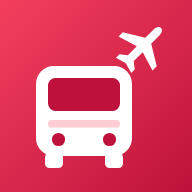
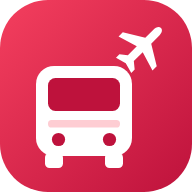
안드로이드 앱 설치(PWA) 지원
- 서비스 워커 추가: 앱 설치 조건 충족, 오프라인에서도 시간표 표시
- 설치 버튼(크롬 설치 안내), 오프라인 표시
- 원형 아이콘용 maskable 아이콘, manifest 보강
- 앱 아이콘 길게 누르기 바로가기 (T1/T2/대화동 출발)

Claude-Session: https://claude.ai/code/session_01QBqre46X2467msNNCXSqnc

diff --git a/index.html b/index.html
@@ -9,7 +9,9 @@
 <link rel="icon" href="icon.svg" type="image/svg+xml">
 <link rel="apple-touch-icon" href="apple-touch-icon.png">
 <link rel="manifest" href="manifest.webmanifest">
-<meta name="theme-color" content="#0f172a">
+<meta name="theme-color" content="#f3f5f9" media="(prefers-color-scheme: light)">
+<meta name="theme-color" content="#0b1120" media="(prefers-color-scheme: dark)">
+<meta name="description" content="대화동 ↔ 인천공항 공항리무진 3300번 다음 버스 시간과 실시간 위치">
 <title>공항리무진 3300번 BUS</title>
 <style>
   :root{
@@ -86,6 +88,16 @@
   .after .src{margin:4px 0 2px}
   #count{white-space:nowrap;text-align:right}
   .listhead{gap:10px}
+  .install{display:flex;align-items:center;gap:10px;background:var(--card);border:1px solid var(--line);border-radius:14px;
+    padding:10px 12px;margin:0 0 12px}
+  .install[hidden]{display:none}
+  .install .tx{flex:1;min-width:0;font-size:13px;font-weight:600;line-height:1.35}
+  .install button{border:0;border-radius:10px;font:inherit;font-size:13px;font-weight:800;padding:9px 12px;cursor:pointer;white-space:nowrap}
+  .install .go{background:var(--accent);color:#fff}
+  .install .x{background:transparent;color:var(--sub);padding:9px 4px;font-size:16px}
+  .offline{font-size:12px;font-weight:700;color:#b45309;background:#fef3c7;border-radius:10px;padding:7px 10px;margin:0 0 12px}
+  .offline[hidden]{display:none}
+  @media (prefers-color-scheme: dark){ .offline{background:#422006;color:#fde68a} }
   footer{margin-top:24px;font-size:11px;color:var(--sub);line-height:1.6;text-align:center}
   .loc{display:flex;justify-content:space-between;align-items:center;gap:8px;margin:-4px 2px 12px;font-size:13px;color:var(--sub)}
   .loc b{color:var(--text)}
@@ -174,6 +186,13 @@
       <div class="clock"><div class="t" id="clock">--:--:--</div><div class="z">한국시간 · Korea Time</div></div>
     </div>
   </header>
+
+  <div class="install" id="installBar" hidden>
+    <div class="tx" id="installTx">📲 앱으로 설치하면 아이콘을 눌러 바로 열 수 있어요<span class="en">Install as an app for one-tap access</span></div>
+    <button class="go" id="installGo">설치</button>
+    <button class="x" id="installX" aria-label="닫기">✕</button>
+  </div>
+  <div class="offline" id="offlineBar" hidden>📴 오프라인 · 저장된 시간표를 보여줍니다 <span class="en il">Offline · showing saved timetable</span></div>
 
   <nav class="seg" id="seg">
     <button data-k="dh">대화동<small>공항 방면</small><small class="en">To Airport</small></button>
@@ -751,8 +770,12 @@ function buildDiagram(st, turn, buses, tg, nearBus){
 
 $("liveBtn").onclick = fetchLive;
 
+// 앱 바로가기(?stop=t1 등)로 열면 그 탭을 먼저 보여줌
+const qStop = new URLSearchParams(location.search).get("stop");
+if (qStop && validKey(qStop)){ key = qStop; manual = true; }
 select(key);
-locate();
+if (manual) locMsg.innerHTML = "📌 바로가기로 열림" + en("Opened from shortcut · tap Locate for auto");
+else locate();
 renderLive();
 fetchLive();
 setInterval(() => render(false), 1000);
@@ -761,6 +784,41 @@ document.addEventListener("visibilitychange", () => {
   // 다른 앱에 갔다가 돌아오면 위치를 새로 확인
   if (!document.hidden){ manual = false; lastNextIdx = null; render(false); locate(); fetchLive(); }
 });
+// ===== 앱(PWA) =====
+const isApp = matchMedia("(display-mode: standalone)").matches || navigator.standalone === true;
+if ("serviceWorker" in navigator){
+  addEventListener("load", () => navigator.serviceWorker.register("sw.js").catch(() => {}));
+}
+// 설치 안내: 크롬이 설치 가능하다고 알려주면 버튼 표시
+let installEvt = null;
+const installBar = $("installBar");
+const dismissed = () => { try { return localStorage.getItem("bus3300_install_x") === "1"; } catch(e){ return false; } };
+addEventListener("beforeinstallprompt", e => {
+  e.preventDefault(); installEvt = e;
+  if (!isApp && !dismissed()) installBar.hidden = false;
+});
+$("installGo").onclick = async () => {
+  if (installEvt){
+    installEvt.prompt();
+    const r = await installEvt.userChoice.catch(() => ({}));
+    if (r.outcome === "accepted") installBar.hidden = true;
+    installEvt = null;
+  } else {
+    $("installTx").innerHTML = "브라우저 메뉴 <b>⋮</b> → <b>앱 설치</b> 또는 <b>홈 화면에 추가</b>를 누르세요" + en("Browser menu ⋮ → Install app / Add to Home screen");
+    $("installGo").hidden = true;
+  }
+};
+$("installX").onclick = () => { installBar.hidden = true; try { localStorage.setItem("bus3300_install_x", "1"); } catch(e){} };
+addEventListener("appinstalled", () => { installBar.hidden = true; });
+// 설치 이벤트가 안 오는 브라우저(일부 브라우저)는 4초 뒤 수동 안내
+setTimeout(() => { if (!isApp && !installEvt && !dismissed() && /Android/i.test(navigator.userAgent)) installBar.hidden = false; }, 4000);
+
+// 오프라인 표시
+const netState = () => { $("offlineBar").hidden = navigator.onLine; };
+addEventListener("online", () => { netState(); fetchLive(); });
+addEventListener("offline", netState);
+netState();
+
 // 뒤로가기 캐시로 페이지가 복원될 때도 위치 갱신
 window.addEventListener("pageshow", e => { if (e.persisted){ manual = false; locate(); fetchLive(); } });
 </script>

diff --git a/sw.js b/sw.js
@@ -1,0 +1,44 @@
+// 공항리무진 3300번 — 서비스 워커
+// - 앱 설치(PWA) 조건 충족
+// - 인터넷이 끊겨도 마지막으로 본 화면·시간표 표시
+// - 화면 파일은 "네트워크 먼저": 수정하면 다음 실행에 바로 반영
+// 파일 구성을 바꾸면 VERSION 숫자를 올리세요.
+const VERSION = "v1";
+const CACHE = "bus3300-" + VERSION;
+const FILES = ["./", "./index.html", "./manifest.webmanifest", "./icon.svg",
+  "./icon-192.png", "./icon-512.png", "./icon-maskable-192.png", "./icon-maskable-512.png", "./apple-touch-icon.png"];
+
+self.addEventListener("install", e => {
+  e.waitUntil(caches.open(CACHE).then(c => c.addAll(FILES)).then(() => self.skipWaiting()));
+});
+
+self.addEventListener("activate", e => {
+  e.waitUntil(caches.keys()
+    .then(keys => Promise.all(keys.filter(k => k.startsWith("bus3300-") && k !== CACHE).map(k => caches.delete(k))))
+    .then(() => self.clients.claim()));
+});
+
+self.addEventListener("fetch", e => {
+  const req = e.request;
+  const url = new URL(req.url);
+  // 실시간 버스 위치(Worker) 등 다른 사이트 요청은 건드리지 않음
+  if (req.method !== "GET" || url.origin !== self.location.origin) return;
+
+  // 페이지: 네트워크 먼저 → 실패하면 저장본
+  if (req.mode === "navigate" || url.pathname.endsWith(".html") || url.pathname.endsWith("/")){
+    e.respondWith(
+      fetch(req).then(res => {
+        const copy = res.clone();
+        caches.open(CACHE).then(c => c.put("./index.html", copy));
+        return res;
+      }).catch(() => caches.match("./index.html").then(r => r || caches.match("./")))
+    );
+    return;
+  }
+  // 아이콘 등: 저장본 먼저 → 없으면 네트워크
+  e.respondWith(caches.match(req).then(r => r || fetch(req).then(res => {
+    const copy = res.clone();
+    caches.open(CACHE).then(c => c.put(req, copy));
+    return res;
+  })));
+});

diff --git a/README.md b/README.md
@@ -13,6 +13,13 @@
 - **중간 정류장 (주엽역·마두역 등)**: 공식 시간표가 없어 `출발 시각 + 평균 소요시간`으로 추정하고, 운행 중인 버스가 있으면 실시간 위치로 보정 (`PROFILE` 값으로 조정). 일산 정류장 근처(350m)에 있으면 자동 선택
 - **실시간 버스 위치**: 운행 중인 3300번의 현재 정류장, 방향(공항행/대화동행), 잔여석, 내 정류장까지 남은 정거장 수 (30초마다 갱신)
 
+## 안드로이드 앱으로 설치 (PWA)
+- 크롬으로 사이트를 열면 상단에 **📲 설치** 버튼이 뜸 → 누르면 앱 서랍에 아이콘 생성, 주소창 없이 전체 화면 실행
+- 버튼이 안 뜨면: 크롬 메뉴 ⋮ → **앱 설치** (또는 홈 화면에 추가)
+- 인터넷이 끊겨도 마지막으로 본 시간표 표시 (`sw.js`)
+- 앱 아이콘을 길게 누르면 **T1 출발 / T2 출발 / 대화동 출발** 바로가기
+- 화면을 수정하면 다음 실행 때 자동 반영. `sw.js`의 파일 목록을 바꾸면 `VERSION`을 올릴 것
+
 ## GitHub Pages 배포
 1. 새 저장소 생성 (예: `bus3300`)
 2. `index.html`, `README.md` 업로드 (`worker.js`는 올려도 됨 — 키는 들어있지 않음)
